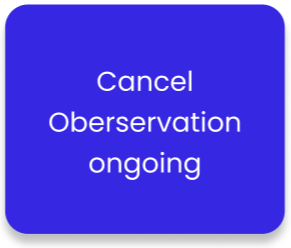
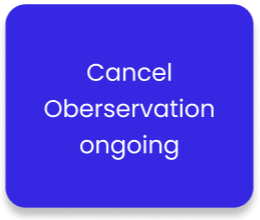
Updated Button Size & Button fix

diff --git a/final_page.py b/final_page.py
@@ -1,3 +1,4 @@
+import webbrowser
 from tkinter import *
 from tkinter import ttk
 
@@ -9,6 +10,9 @@ def homePage(tk):
 def cameraPage(tk):
     tk.destroy()
     import camera
+
+def callWeb():
+    webbrowser.open_new(r"https://www.google.com")
 
 # --------------------------------------TOP BAR---------------------------------------------------
 # define window as GUI window, set minimum dimension
@@ -63,7 +67,8 @@ button1 = Button(window,
                  background="white",
                  activeforeground="white",
                  activebackground="white",
-                 borderwidth=0)
+                 borderwidth=0,
+                 command=lambda : callWeb())
 button1.grid(row=6, column=0)
 
 # button 2

diff --git a/main_page.py b/main_page.py
@@ -13,8 +13,8 @@ def callWeb():
 # --------------------------------------TOP BAR---------------------------------------------------
 # define window as GUI window, set minimum dimension
 window = Tk()
-window.minsize(850,450)
-window.maxsize(855, 455)
+window.minsize(850,400)
+window.maxsize(855, 450)
 window.title("Water Analysis Grp9A")
 window.configure(bg="white")
 style = ttk.Style()

diff --git a/main_page_2.py b/main_page_2.py
@@ -13,7 +13,7 @@ def callWeb():
 # --------------------------------------TOP BAR---------------------------------------------------
 # define window as GUI window, set minimum dimension
 window = Tk()
-window.minsize(850, 450)
+window.minsize(850, 400)
 window.maxsize(1000, 550)
 window.title("Water Analysis Grp9A")
 window.configure(bg="white")
